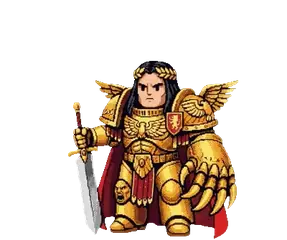
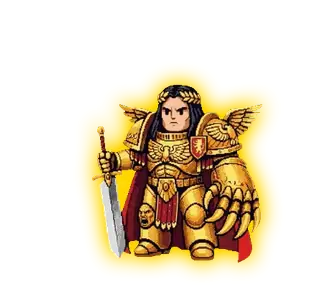
Game: bake the gods' gold/green glow into their art (padded 10% per side) instead of a CSS drop-shadow that was recomputed on every animation frame; layout shifted to keep the figures where they were

diff --git a/docs/game.js b/docs/game.js
@@ -21,7 +21,8 @@
   .wg-bar .zz.on { opacity: 1; }
   @media (min-width: 600px) { .wg-arena { height: 176px; } }
   .wg img { position: absolute; display: block; pointer-events: none; user-select: none; -webkit-user-select: none; }
-  .wg-god { bottom: calc(32% + 8px); height: calc(68% - 14px); transition: filter .6s; }  /* 跟亞空間條留 8px 空隙（素材已裁掉透明邊） */
+  /* 跟亞空間條留 8px 空隙（素材已裁掉透明邊）。光暈畫在圖裡、四邊各多 10%：圖放大 1.2 倍、往下移 10%，人物大小位置跟以前一樣 */
+  .wg-god { bottom: calc(32% + 8px - (68% - 14px) * .1); height: calc((68% - 14px) * 1.2); }
   .wg-guo { left: 0; } .wg-emp { right: 0; }
   /* 兩邊神祇的領地（1/4 圓，最底層）：大不淨者的腐爛花園貼左下、帝皇的巢都貼右下；調暗一點，不搶神祇和印章 */
   .wg-place { opacity: .7; z-index: 0; }
@@ -29,8 +30,8 @@
   .wg-place { bottom: calc(32% - 14px); height: calc(68% * 1.5 + 14px); }  /* 放大 1.5 倍往中間延伸，神站在地面上；上緣超出卡片的部分被切掉 */
   /* 帝皇敗北立繪比較大，縮成 8 成。王座底部是平的，貼底會看起來比對面低：取頭對齊（抬 20%）和底對齊（不抬）的中間，抬 10% */
   /* 帝皇勝利、大不淨者敗北立繪比較胖，縮成 82%，看起來跟盤中差不多大（底部照樣貼齊） */
-  .wg-emp[src*="Emperor_win"], .wg-guo[src*="GUO_loss"] { height: calc((68% - 14px) * .82); }
-  .wg-emp[src*="Emperor_loss"] { height: calc((68% - 14px) * .8); bottom: calc(32% + 8px + (68% - 14px) * .1); }
+  .wg-emp[src*="Emperor_win"], .wg-guo[src*="GUO_loss"] { height: calc((68% - 14px) * .82 * 1.2); bottom: calc(32% + 8px - (68% - 14px) * .082); }
+  .wg-emp[src*="Emperor_loss"] { height: calc((68% - 14px) * .8 * 1.2); bottom: calc(32% + 8px + (68% - 14px) * .1 - (68% - 14px) * .08); }
   /* 收盤結果印章（win／loss）：上方兩尊神中間的空白正中央，寬度依實際空間調整（不蓋到神），結算時才出現 */
   .wg-result { left: 50%; top: calc((68% - 8px) / 2); width: 40%; height: auto; transform: translate(-50%, -50%) scale(.6); opacity: 0; z-index: 3;
     transition: opacity .6s, transform .6s cubic-bezier(.2, 1.6, .4, 1); }
@@ -62,7 +63,7 @@
   .wg.wg-off .wg-ticker { display: none; }  /* 休市：跑馬燈那列整條拿掉，卡片跟著變矮 */  /* 要寫 .wg 開頭：不然會被 .wg img { display: block } 蓋過，天天都出現 */
   .wg-cloud { bottom: -8%; height: 48%;  /* 往下沉一點（下緣被卡片切掉），雲跟部隊腳下同高 */ transform: translateX(-50%); transition: left 2s ease-in-out, opacity 1s; z-index: 3; }  /* 煙塵在兩軍前面 */
   /* 神祇一直發光（帝皇金、大不淨者綠）；部隊只在大漲／大跌（±0.5% 以上）時發光 */
-  .wg-emp { filter: drop-shadow(0 0 6px #ffd700); } .wg-guo { filter: drop-shadow(0 0 6px #00ff00); }
+  /* 神祇的光暈（帝皇金、大不淨者綠）已經畫在圖裡，不用 CSS filter（動圖每格重算很吃 CPU） */
   .wg-march .wg-unit { animation: wg-step .5s steps(2) infinite; }
   @keyframes wg-step { 0% { translate: 0 0; rotate: 0deg; } 50% { translate: 0 -3px; rotate: -2deg; } }
   .wg-battle .wg-unit { animation: wg-jit .35s infinite; }
@@ -316,7 +317,7 @@
 
   let data = { twii: null, tsmc: null, tradingDay: true };
   // 素材尺寸和人物中線（scripts/build_game_assets.py 產生）
-  let meta = { Emperor: { w: 287, h: 240, cx: 0.54 }, GUO: { w: 371, h: 240, cx: 0.53 }, Emperor_win: { w: 343, h: 240 }, GUO_loss: { w: 251, h: 240 }, win: { w: 336, h: 120 } };
+  let meta = { Emperor: { w: 335, h: 288, cx: 0.53 }, GUO: { w: 419, h: 288, cx: 0.51 }, Emperor_win: { w: 391, h: 288 }, GUO_loss: { w: 299, h: 288 }, win: { w: 336, h: 120 } };
   // 招式圖先預載：第一次出招不會等下載
   for (const n of ['Emperor_attack', 'GUO_attack', 'Emperor_attack2', 'GUO_attack2', 'Emperor_attack1_2', 'GUO_attack1_2',
     'Emperor_attack2_2', 'GUO_attack2_2', 'damage', 'heart']) new Image().src = `${A}${n}.webp`;
@@ -690,10 +691,13 @@
     // 帝皇（一般／靜止圖）：人物中線到右緣的距離＝大不淨者人物中線到左緣的距離；勝敗立繪照舊貼右
     {
       const gh = guo.getBoundingClientRect().height || 0;
+      // 圖四邊各有 24/288 的光暈留白：往外推出卡片邊緣，人物還是貼著左右邊（光暈超出的部分被切掉）
+      const pad = Math.round(gh * 24 / 288);
+      guo.style.left = `${-pad}px`;
       if (!done && gh && meta.Emperor && meta.GUO) {
         const gw = gh * meta.GUO.w / meta.GUO.h, ew = gh * meta.Emperor.w / meta.Emperor.h;
-        emp.style.right = `${Math.max(0, gw * meta.GUO.cx - ew * (1 - meta.Emperor.cx))}px`;
-      } else emp.style.right = '0';
+        emp.style.right = `${Math.max(-pad, gw * meta.GUO.cx - ew * (1 - meta.Emperor.cx) - pad)}px`;  // 兩尊神的人物中線離左右邊一樣遠
+      } else emp.style.right = `${-pad}px`;
     }
 
     // 戰線：昨收在中間，漲往左推（帝皇在右邊進攻），tanh 讓 ±2% 接近邊界

diff --git a/docs/index.html b/docs/index.html
@@ -942,7 +942,7 @@
 
   // 小遊戲：第一次要用時才載入，之後每次重畫把同一個遊戲元素搬回原位。主帳號是戰鎚（docs/game.js），
   // love 帳號是自己的遊戲（docs/love.js、素材在 docs/love/）：只載入登入帳號的那一套，另一套的檔案完全不抓
-  const GAMES = { owner: ['game.js?v=70', 'WarGame'], love: ['love.js?v=16', 'LoveGame'] };
+  const GAMES = { owner: ['game.js?v=71', 'WarGame'], love: ['love.js?v=16', 'LoveGame'] };
   const gameLoading = {};
   function attachGame(d) {
     const [src, name] = GAMES[window.PrivateVault?.profile?.()] ?? GAMES.owner;

diff --git a/scripts/build_game_assets.py b/scripts/build_game_assets.py
@@ -8,7 +8,7 @@ Run: python scripts/build_game_assets.py
 """
 import json
 import pathlib
-from PIL import Image
+from PIL import Image, ImageFilter
 
 SRC = pathlib.Path(__file__).resolve().parent.parent / 'mini_game'
 OUT = pathlib.Path(__file__).resolve().parent.parent / 'docs' / 'game'
@@ -20,6 +20,25 @@ SIZES = {'Emperor': 240, 'GUO': 240, 'fight-cloud': 200, 'Emperor_win': 240, 'Em
          'casino_closed': None, 'sleep': None, 'Emperor_attack1_2': 128, 'GUO_attack1_2': 128,
          'Emperor_attack2_2': 200, 'GUO_attack2_2': 160, 'day_off': 160, 'heart': None,
          'Emperor_attack_sp': None, 'GUO_attack_sp': None, 'GUO_mini_troops': 96, 'Emperor_mini_troops': 96}
+# 神祇的光暈直接畫進圖裡（以前是網頁上 CSS drop-shadow，動圖每換一格瀏覽器就要重算一次，吃 CPU）。
+# 四邊各留 GLOW_PAD px（圖高 240 的 10%）給光暈；網頁那邊把神祇放大 1.2 倍、往下移 10% 抵銷，人物大小位置不變
+GLOW = {'Emperor': (255, 215, 0), 'Emperor_win': (255, 215, 0), 'Emperor_loss': (255, 215, 0),
+        'GUO': (0, 255, 0), 'GUO_win': (0, 255, 0), 'GUO_loss': (0, 255, 0)}
+GLOW_PAD, GLOW_SIGMA, GLOW_GAIN = 24, 10, 1.7  # 手機上神祇約 73px 高：σ 10、加強 1.7 倍，跟原本 CSS 的 drop-shadow(0 0 6px) 差不多
+
+
+def glow(frame, color):
+    w, h = frame.size
+    out = Image.new('RGBA', (w + 2 * GLOW_PAD, h + 2 * GLOW_PAD), (0, 0, 0, 0))
+    a = Image.new('L', out.size, 0)
+    a.paste(frame.getchannel('A'), (GLOW_PAD, GLOW_PAD))
+    halo = Image.new('RGBA', out.size, color + (0,))
+    halo.putalpha(a.filter(ImageFilter.GaussianBlur(GLOW_SIGMA)).point(lambda v: min(255, int(v * GLOW_GAIN))))
+    out.alpha_composite(halo)
+    out.alpha_composite(frame, (GLOW_PAD, GLOW_PAD))
+    return out
+
+
 # 必殺技動圖：每一格都留、每格 70ms（網頁照這個節奏對傷害時間點）
 SP_FRAME_MS = 70
 
@@ -50,18 +69,20 @@ def build(name, h, OUT):
     n = getattr(im, 'n_frames', 1)
     box = trim_box(im) if im.mode in ('RGBA', 'P', 'LA') or 'transparency' in im.info else None
     crop = (lambda x: x.crop(box)) if box else (lambda x: x)
+    # 神祇：裁、縮好之後才加光暈（光暈的大小才跟顯示大小對得上）
+    finish = (lambda f: glow(f, GLOW[name])) if name in GLOW else (lambda f: f)
     if n > 1:
         frames, durs = [], []
         sp = name.endswith('_sp')
         for i in range(0, n, 1 if sp else 2):  # 20 fps -> 10 fps（必殺技不減格）
             im.seek(i)
-            frames.append(fit(crop(im.convert('RGBA')), h))
+            frames.append(finish(fit(crop(im.convert('RGBA')), h)))
             durs.append(SP_FRAME_MS if sp else (im.info.get('duration') or 50) * 2)
         frames[0].save(OUT / f'{name}.webp', save_all=True, append_images=frames[1:], duration=durs, loop=0,
                        quality=70, method=6, lossless=False)
         frames[0].save(OUT / f'{name}_still.webp', quality=75, method=6)
     else:
-        fit(crop(im.convert('RGBA' if im.mode in ('RGBA', 'P') else 'RGB')), h).save(OUT / f'{name}.webp', quality=78, method=6)
+        finish(fit(crop(im.convert('RGBA' if im.mode in ('RGBA', 'P') else 'RGB')), h)).save(OUT / f'{name}.webp', quality=78, method=6)
     print(name, (OUT / f'{name}.webp').stat().st_size // 1024, 'KB')
 
 
